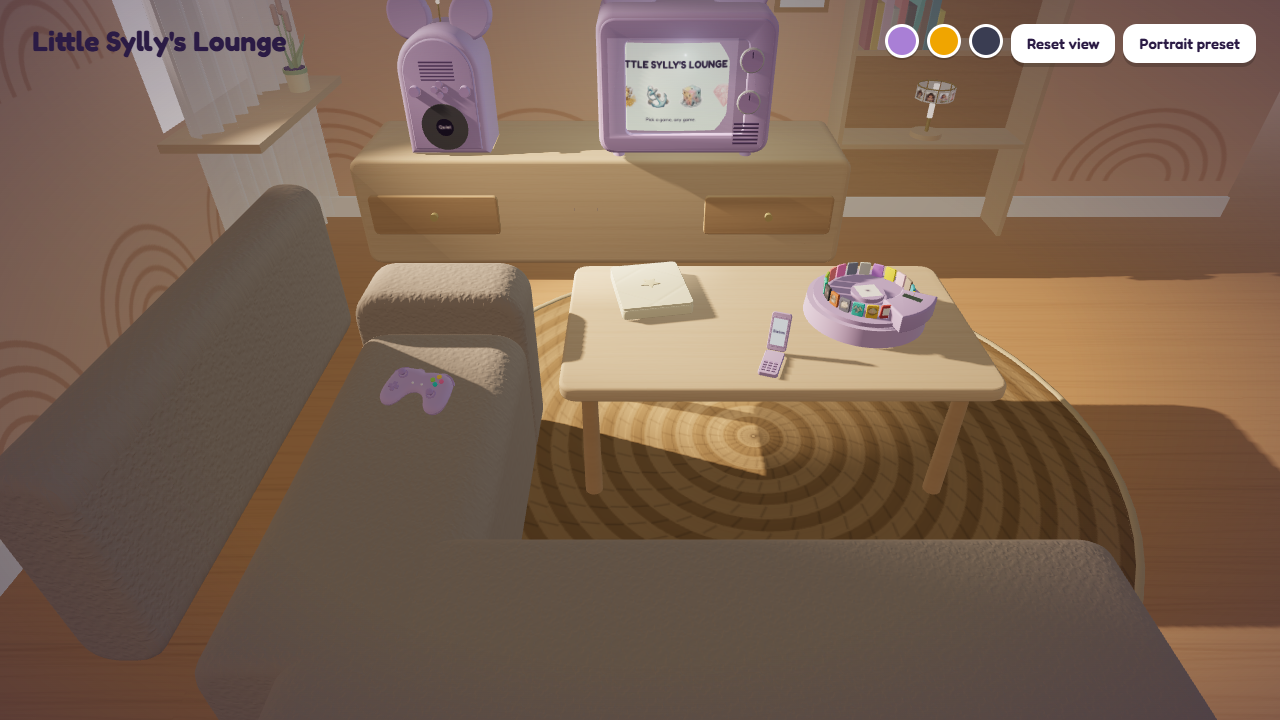
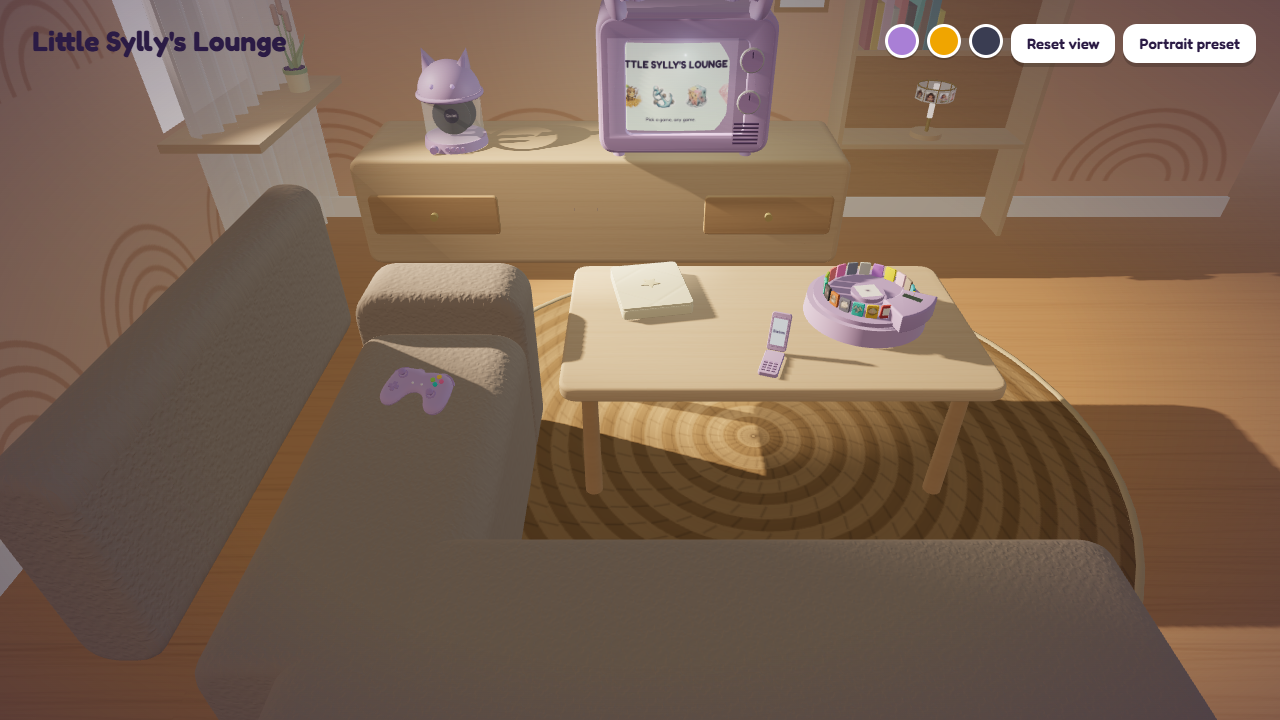
feat(premium): re-block steps 4-5 — droopy bunny ears on the telly, the cat-jar jukebox
Both props reshaped to the owner's chosen references, both keeping every
pick id and api so the scene's wiring is untouched.

The ears are a new lib helper, droopEar: a tube swept along a bent curve
and flattened so it reads as a lobe. A lathe cannot bend, which is why
it is a tube. First attempt folded the ear mostly along +z and it read
as a straight antenna from the couch, because a fold toward the camera
is foreshortened to nothing; the shipped curve hangs the tip low in
front of the screen instead.

The jukebox becomes a see-through jar with the records standing inside
and a dome lid with cat ears. First attempt parked the ears near the
lid's base, where the dome's own 0.118 radius swallowed them whole.

Plain opacity, not MeshPhysical transmission, per the cost envelope.

365 Node checks, 17 visual checks, all green.

Changed region(s): [[0.2812, 0.0, 0.4688, 0.2139], [0.4688, 0.0, 0.5938, 0.0306], [0.4688, 0.1222, 0.5625, 0.1528]]

diff --git a/wip/premium/prm-props.js b/wip/premium/prm-props.js
@@ -44,7 +44,7 @@
   const PRM_BUILDERS = {};
 
   function prmBuildAll(ctx) {
-    const shared = { earGeometry: ctx.ControllerBody ? ctx.ControllerBody.buildEars(ctx.lib.THREE, ctx.lib.mats.cream)[0].geometry : null };
+    const shared = {};   // the TV and the jukebox now build their own ears; nothing is shared
     const out = {};
     Object.keys(PRM_BUILDERS).forEach(id => { const g = PRM_BUILDERS[id](ctx, shared); g.name = id; out[id] = g; });
     return out;
@@ -169,17 +169,29 @@
       g.add(d); g.add(prmMesh(THREE, rimGeo, mats.chrome, id + '-rim', [0.22, cy + dy, D / 2 + 0.035]));
     });
     for (let i = 0; i < 6; i++) g.add(prmMesh(THREE, new THREE.BoxGeometry(0.09, 0.006, 0.006), mats.plum, 'grille' + i, [0.22, cy - 0.12 - i * 0.014, D / 2 + 0.022], null, false));
-    if (opts.earGeometry) [-1, 1].forEach(side => {
-      const e = new THREE.Mesh(opts.earGeometry, ears); e.name = side < 0 ? 'earL' : 'earR';
-      e.scale.setScalar(0.24); e.position.set(side * 0.2, cy + H / 2 + 0.06, -0.04); e.rotation.set(-0.12, 0, -side * 0.1);
-      e.castShadow = e.receiveShadow = true; g.add(e);
+    /* Droopy bunny ears (owner, 19 Sep 2026 — the "Bunny Beats" reference): each ear rises from
+       the cabinet top, leans outward, then folds forward and down past the front top edge. The
+       tip is a flattened sphere cap in the ear colour. */
+    /* The fold has to bring the tip visibly DOWN, not just forward: a fold that travels mostly along
+       +z is foreshortened to nothing from the couch and the ear reads as a straight antenna. This
+       curve rises, arcs over the front edge and hangs the tip low, in front of the screen top. */
+    const EAR_R = 0.062, EAR_PTS = [[0, 0, 0], [0, 0.12, 0.0], [0.01, 0.22, 0.04], [0.03, 0.25, 0.12], [0.05, 0.16, 0.21], [0.06, 0.06, 0.24]];
+    [-1, 1].forEach(side => {
+      const ear = lib.droopEar(EAR_PTS, EAR_R, 0.55);
+      const e = new THREE.Mesh(ear.outer, ears); e.name = side < 0 ? 'earL' : 'earR';
+      e.castShadow = e.receiveShadow = true;
+      e.position.set(side * 0.165, cy + H / 2 - 0.01, -0.06); e.rotation.set(0, 0, -side * 0.34); e.scale.x = side < 0 ? -1 : 1;
+      const inner = new THREE.Mesh(ear.inner, plate); inner.name = 'inner'; inner.receiveShadow = true; e.add(inner);
+      const tipGeo = new THREE.SphereGeometry(EAR_R, 14, 10); tipGeo.scale(0.55, 1, 1);
+      const tip = new THREE.Mesh(tipGeo, ears); tip.name = 'tip'; tip.position.copy(ear.tip); tip.castShadow = true; e.add(tip);
+      g.add(e);
     });
     [[-0.24, -0.15], [0.24, -0.15], [-0.24, 0.12], [0.24, 0.12]].forEach(([x, z], i) =>
       g.add(prmMesh(THREE, new THREE.CylinderGeometry(0.02, 0.022, FEET, 16), shell, 'foot' + i, [x, FEET / 2, z])));
     g.userData.api = { screen, tick() { return false; } };
     return g;
   }
-  PRM_BUILDERS.tv = (ctx, shared) => prmBuildTV(ctx.lib, ctx.design, { earGeometry: shared.earGeometry, attractTexture: ctx.attractTexture });
+  PRM_BUILDERS.tv = (ctx) => prmBuildTV(ctx.lib, ctx.design, { attractTexture: ctx.attractTexture });
 
   /* Pure: the rotation a spin ends on. Cartridge i sits at angle i·slot on the
      ring; spinner rotation θ = -k·slot brings k to the front. Always at least
@@ -268,45 +280,66 @@
     s.closePath(); return s;
   }
 
-  /* The jukebox: an arched cabinet (shell), inset panel (plate), grille, two
-     knobs + four candy caps (buttons), a record with a label, a brass antenna
-     with a lit bead, and ears that are shorter, rounder and angled out. */
-  function prmBuildJukebox(lib, design, opts = {}) {
-    const { THREE, mats } = lib; const g = new THREE.Group(); const W = 0.30, H = 0.44, D = 0.24, cy = H / 2;
+  /* The cat jar (owner, 19 Sep 2026 — the "Lavender Cat" reference). A see-through cylinder with
+     two records standing inside it, on a base ring carrying the knob and four candy buttons; a
+     dome lid with a rim, two triangular cat ears and two lit eyes. Replaces the arched cabinet
+     wholesale but keeps every pick id and the same api, so the scene's wiring is untouched.
+     shell → lid + base · plate → record labels + inner ears · ears → cat ears · buttons → knob,
+     buttons, eyes. */
+  function prmBuildJukebox(lib, design) {
+    const { THREE, mats } = lib; const g = new THREE.Group();
     const shell = lib.role('shell', design.shell), plate = lib.role('plate', design.plate);
     const ears = lib.role('ears', design.ears), buttons = lib.role('buttons', design.buttons, { roughness: .34 });
-    const arch = (w, h) => { const s = new THREE.Shape(), r = w / 2; s.moveTo(-r, -h / 2); s.lineTo(r, -h / 2); s.lineTo(r, h / 2 - r); s.absarc(0, h / 2 - r, r, 0, Math.PI, false); s.lineTo(-r, -h / 2); return s; };
-    /* lib.extrude is the raw one: bevelSize pushes the outline OUTWARD, so the
-       shape is inset by the bevel to make the finished cabinet exactly W x H.
-       Un-inset it sank 2 cm of itself into the bench it stands on. */
-    const CAB_BEV = 0.02, PAN_BEV = 0.005;
-    g.add(prmMesh(THREE, lib.extrude(arch(W - 2 * CAB_BEV, H - 2 * CAB_BEV), D, CAB_BEV), shell, 'cabinet', [0, cy, 0]));
-    g.add(prmMesh(THREE, lib.extrude(arch(W - 0.05 - 2 * PAN_BEV, H - 0.05 - 2 * PAN_BEV), 0.02, PAN_BEV), plate, 'panel', [0, cy, D / 2 + 0.005]));
-    for (let i = 0; i < 6; i++) g.add(prmMesh(THREE, new THREE.BoxGeometry(0.12, 0.005, 0.006), mats.plum, 'grille' + i, [0, cy + 0.12 - i * 0.012, D / 2 + 0.02], null, false));
-    const knobGeo = new THREE.CylinderGeometry(0.018, 0.02, 0.02, 24);
-    const knob = prmMesh(THREE, knobGeo, buttons, 'jukebox-knob', [-0.09, cy + 0.02, D / 2 + 0.025], [Math.PI / 2, 0, 0]); prmTag(knob, 'jukebox-knob'); g.add(knob);
-    g.add(prmMesh(THREE, knobGeo, buttons, 'knobR', [0.09, cy + 0.02, D / 2 + 0.025], [Math.PI / 2, 0, 0]));
-    const capGeo = new THREE.CylinderGeometry(0.011, 0.012, 0.008, 20);
-    [[0, 0.045], [0, 0.005], [-0.02, 0.025], [0.02, 0.025]].forEach(([x, y], i) => g.add(prmMesh(THREE, capGeo, buttons, 'cap' + i, [x, cy + y, D / 2 + 0.02], [Math.PI / 2, 0, 0])));
-    const record = prmMesh(THREE, new THREE.CylinderGeometry(0.085, 0.085, 0.005, 48), mats.black, 'jukebox-record', [0, cy - 0.11, D / 2 + 0.02], [Math.PI / 2, 0, 0]); prmTag(record, 'jukebox-record'); g.add(record);
+    const eyes = lib.role('buttons', design.buttons, { emissive: design.buttons, emissiveIntensity: .6, roughness: .3 });
+    eyes.userData.prmEmissive = true;
+    const JR = 0.11, JH = 0.16, BASE_H = 0.035, LID_R = 0.118;
+    const jarBottom = BASE_H, jarTop = BASE_H + JH, recY = jarBottom + JH / 2;
+
+    g.add(prmMesh(THREE, new THREE.CylinderGeometry(LID_R, LID_R + 0.005, BASE_H, 32), shell, 'base', [0, BASE_H / 2, 0]));
+    /* Open-ended so we see the records through both walls; no shadow, or the jar casts a solid
+       black drum on the bench and stops reading as glass at all. */
+    g.add(prmMesh(THREE, new THREE.CylinderGeometry(JR, JR, JH, 48, 1, true), mats.glass, 'jar', [0, jarBottom + JH / 2, 0], null, false));
+
+    const recGeo = new THREE.CylinderGeometry(0.072, 0.072, 0.005, 48);
+    const record = prmMesh(THREE, recGeo, mats.black, 'jukebox-record', [0, recY, 0.025], [Math.PI / 2, 0, 0]);
+    prmTag(record, 'jukebox-record'); g.add(record);
     const labelMat = new THREE.MeshStandardMaterial({ map: lib.tex.label('', '#2B1B45', '#ffffff', 256, 256), roughness: .6 });
-    const label = prmMesh(THREE, new THREE.CircleGeometry(0.032, 32), labelMat, 'recordLabel', [0, cy - 0.11, D / 2 + 0.0231], null, false); g.add(label);
-    g.add(prmMesh(THREE, new THREE.CylinderGeometry(0.003, 0.003, 0.06, 8), mats.brass, 'antenna', [0, H + 0.03, -0.02], null, false));
-    g.add(prmMesh(THREE, new THREE.SphereGeometry(0.008, 12, 10), mats.emissive('#ffd27a', 1.5), 'bead', [0, H + 0.065, -0.02], null, false));
-    if (opts.earGeometry) [-1, 1].forEach(side => {
-      const e = new THREE.Mesh(opts.earGeometry, ears); e.name = side < 0 ? 'earL' : 'earR';
-      e.scale.set(0.17, 0.14, 0.17); e.position.set(side * 0.11, H + 0.02, -0.03); e.rotation.set(-0.1, 0, -side * 0.45);
-      e.castShadow = e.receiveShadow = true; g.add(e);
+    const label = prmMesh(THREE, new THREE.CircleGeometry(0.028, 32), labelMat, 'recordLabel', [0, recY, 0.0281], null, false);
+    g.add(label);
+    const back = prmMesh(THREE, recGeo, mats.black, 'recordBack', [0.012, recY, -0.03], [Math.PI / 2, 0.18, 0]);
+    back.add(prmMesh(THREE, new THREE.CircleGeometry(0.028, 32), plate, 'recordBackLabel', [0, 0.0031, 0], [-Math.PI / 2, 0, 0], false));
+    g.add(back);
+
+    // the control strip on the base's front
+    const knob = prmMesh(THREE, new THREE.CylinderGeometry(0.014, 0.016, 0.018, 24), buttons, 'jukebox-knob', [-0.06, BASE_H / 2, LID_R + 0.008], [Math.PI / 2, 0, 0]);
+    prmTag(knob, 'jukebox-knob'); g.add(knob);
+    const capGeo = new THREE.CylinderGeometry(0.008, 0.009, 0.008, 20);
+    [-0.02, 0.0, 0.02, 0.04].forEach((x, i) => g.add(prmMesh(THREE, capGeo, buttons, 'button' + i, [x + 0.01, BASE_H / 2, LID_R + 0.003], [Math.PI / 2, 0, 0])));
+
+    // the lid: a dome, a rim, two cat ears with paler inners, two lit eyes
+    g.add(prmMesh(THREE, new THREE.SphereGeometry(LID_R, 32, 16, 0, Math.PI * 2, 0, Math.PI / 2), shell, 'lid', [0, jarTop, 0]));
+    g.add(prmMesh(THREE, new THREE.TorusGeometry(LID_R, 0.009, 10, 48), shell, 'lidRim', [0, jarTop, 0], [Math.PI / 2, 0, 0]));
+    const earGeo = new THREE.ConeGeometry(0.036, 0.075, 4); earGeo.scale(1, 1, 0.55); earGeo.rotateY(Math.PI / 4);
+    const innerGeo = new THREE.ConeGeometry(0.02, 0.045, 4); innerGeo.scale(1, 1, 0.55); innerGeo.rotateY(Math.PI / 4);
+    [-1, 1].forEach(side => {
+      /* On TOP of the dome, not inside it: the dome's own radius is 0.118, so an ear parked near
+         jarTop simply vanishes into the lid. */
+      const e = prmMesh(THREE, earGeo, ears, side < 0 ? 'earL' : 'earR', [side * 0.072, jarTop + 0.125, -0.005], [0, 0, -side * 0.30]);
+      e.add(prmMesh(THREE, innerGeo, plate, 'inner', [0, -0.008, 0.014], null, false));
+      g.add(e);
     });
+    [-1, 1].forEach(side => g.add(prmMesh(THREE, new THREE.SphereGeometry(0.009, 12, 10), eyes, side < 0 ? 'eyeL' : 'eyeR', [side * 0.038, jarTop + 0.050, 0.102], null, false)));
+
     let playing = false;
     g.userData.api = {
       setLabel(text) { const old = labelMat.map; labelMat.map = lib.tex.label(text, '#2B1B45', '#ffffff', 256, 256); labelMat.needsUpdate = true; if (old) old.dispose(); },
       setPlaying(b) { playing = !!b; },
-      tick(now, dt, reduced) { if (!playing || reduced) return false; const d = dt * 3.49; record.rotateY(d); label.rotation.z += d; return true; },   // 33 rpm
+      // 33 rpm, now seen through the glass
+      tick(now, dt, reduced) { if (!playing || reduced) return false; const d = dt * 3.49; record.rotateY(d); label.rotation.z += d; return true; },
     };
     return g;
   }
-  PRM_BUILDERS.jukebox = (ctx, shared) => prmBuildJukebox(ctx.lib, ctx.design, { earGeometry: shared.earGeometry });
+  PRM_BUILDERS.jukebox = (ctx) => prmBuildJukebox(ctx.lib, ctx.design);
 
   /* The flip phone: lower half with the keypad flat on the table, upper half
      hinged open ~110° with its screen facing the camera. Body = shell, screen

diff --git a/wip/premium/verify-prm-props.js b/wip/premium/verify-prm-props.js
@@ -59,9 +59,16 @@ ok(lib.THREE === THREE, 'lib carries the injected THREE');
   const t = lib.tex[k](); ok(t && t.isTexture && t.wrapS === THREE.RepeatWrapping, `tex.${k} returns a repeating texture`);
 });
 ['braid', 'braidBump'].forEach(k => ok(lib.tex[k]().isTexture, `tex.${k} returns a texture`));
+{
+  const e = lib.droopEar([[0, 0, 0], [0, 0.14, 0], [0, 0.24, 0.03], [0, 0.27, 0.10], [0, 0.22, 0.17]], 0.055, 0.55);
+  ok(e.outer && e.outer.isBufferGeometry && e.inner && e.inner.isBufferGeometry, 'droopEar returns outer + inner geometries');
+  e.outer.computeBoundingBox(); const sz = new THREE.Vector3(); e.outer.boundingBox.getSize(sz);
+  ok(sz.x < sz.z * 0.8, `droopEar is flattened in x (x ${sz.x.toFixed(3)} vs z ${sz.z.toFixed(3)})`);
+  ok(e.tip.y < e.outer.boundingBox.max.y - 0.03, 'the tip hangs below the ear crown (it droops)');
+}
 ok(lib.tex.label('Hello').isTexture, 'tex.label returns a texture');
 ok(lib.tex.abstract(3).isTexture, 'tex.abstract returns a texture');
-['birch', 'birchDark', 'floor', 'wall', 'rug', 'rugEdge', 'fabric', 'cream', 'skirting', 'plum', 'black', 'chrome', 'brass', 'curtain', 'window', 'yellow', 'yellowDark', 'paper', 'sleeve', 'potCream', 'leaf', 'cattail']
+['birch', 'birchDark', 'floor', 'wall', 'rug', 'rugEdge', 'fabric', 'cream', 'skirting', 'plum', 'black', 'chrome', 'brass', 'curtain', 'window', 'yellow', 'yellowDark', 'paper', 'sleeve', 'potCream', 'leaf', 'cattail', 'glass']
   .forEach(k => ok(lib.mats[k] && lib.mats[k].isMaterial, `mats.${k} exists`));
 ok(lib.mats.emissive('#ff0000', 2).emissiveIntensity === 2, 'mats.emissive takes an intensity');
 {
@@ -226,7 +233,15 @@ section('tv');
   const ids = {}; tv.traverse(o => { if (o.userData.prmId) ids[o.userData.prmId] = o; });
   ['tv-screen', 'tv-channel', 'tv-volume'].forEach(id => ok(ids[id], `tv has pick node ${id}`));
   ok(ids['tv-screen'].isMesh && ids['tv-screen'].geometry.type === 'SphereGeometry', 'the screen is a sphere section (curved glass)');
-  ok(tv.getObjectByName('earL') && tv.getObjectByName('earR'), 'tv has two ears');
+  const eL = tv.getObjectByName('earL'), eR = tv.getObjectByName('earR'); ok(eL && eR, 'tv has two ears');
+  ok(eL.getObjectByName('inner') && eL.getObjectByName('inner').material.userData.prmRole === 'plate', 'ear inner takes the plate role');
+  ok(eL.getObjectByName('tip') && eL.getObjectByName('tip').material === eL.material, 'ear tip shares the ear material');
+  tv.updateMatrixWorld(true);
+  { const tipW = new THREE.Vector3(); eL.getObjectByName('tip').getWorldPosition(tipW);
+    const earBox = new THREE.Box3().setFromObject(eL), bodyBox = new THREE.Box3().setFromObject(tv.getObjectByName('body'));
+    ok(tipW.y < earBox.max.y - 0.03, 'the ear droops: its tip is below its crown');
+    ok(tipW.z > bodyBox.max.z - 0.12, 'the ear folds forward toward the viewer');
+    ok(earBox.min.x < bodyBox.min.x + 0.02, 'the left ear leans outward past the cabinet'); }
   const roles = {}; tv.traverse(o => { if (o.isMesh && o.material.userData.prmRole) roles[o.material.userData.prmRole] = (roles[o.material.userData.prmRole] || 0) + 1; });
   ['shell', 'plate', 'ears', 'buttons'].forEach(r => ok(roles[r] > 0, `tv carries ${r}`));
   eq(tv.getObjectByName('earL').material.color.getHexString(), '333333', 'ears take design.ears');
@@ -259,8 +274,22 @@ section('jukebox-phone-binder');
   ok(built.jukebox && built.phone && built.binder, 'jukebox, phone and binder build');
   const ids = {}; built.jukebox.traverse(o => { if (o.userData.prmId) ids[o.userData.prmId] = o; });
   ok(ids['jukebox-knob'] && ids['jukebox-record'], 'jukebox has knob + record pick nodes');
-  ok(built.jukebox.getObjectByName('earL') && built.jukebox.getObjectByName('earR'), 'jukebox has ears');
-  ok(built.jukebox.getObjectByName('earL').scale.y < built.jukebox.getObjectByName('earL').scale.x, 'jukebox ears are shorter and rounder than tall (distinct from the TV)');
+  // the cat jar (owner, 19 Sep 2026 — the "Lavender Cat" reference): a see-through body with the
+  // records standing inside, a dome lid with triangular cat ears. Same pick ids as the cabinet it replaced.
+  const jar = built.jukebox.getObjectByName('jar');
+  ok(jar && jar.material.transparent && jar.material.opacity > 0.2 && jar.material.opacity < 0.5, 'jar is a see-through cylinder');
+  ok(jar.geometry.type === 'CylinderGeometry' && !jar.castShadow, 'jar is a cylinder that casts no shadow');
+  ok(built.jukebox.getObjectByName('lid') && built.jukebox.getObjectByName('lid').material.userData.prmRole === 'shell', 'lid takes the shell role');
+  const jEL = built.jukebox.getObjectByName('earL'), jER = built.jukebox.getObjectByName('earR');
+  ok(jEL && jER, 'cat jar has two ears');
+  ok(jEL.geometry.type === 'ConeGeometry' && jEL.material.userData.prmRole === 'ears', 'cat ears are cones in the ears role');
+  ok(jEL.getObjectByName('inner') && jEL.getObjectByName('inner').material.userData.prmRole === 'plate', 'cat ear inner takes the plate role');
+  ok(built.jukebox.getObjectByName('recordBack'), 'a second record stands behind the first');
+  built.jukebox.updateMatrixWorld(true);
+  { const jarBox = new THREE.Box3().setFromObject(jar), recBox = new THREE.Box3().setFromObject(ids['jukebox-record']);
+    ok(jarBox.containsBox(recBox), 'the front record is inside the jar'); }
+  ok(built.jukebox.getObjectByName('eyeL').material.userData.prmRole === 'buttons', 'eyes take the buttons role');
+  { let btns = 0; built.jukebox.traverse(o => { if (/^button\d$/.test(o.name)) btns++; }); eq(btns, 4, 'four candy buttons on the base'); }
   const jb = built.jukebox.userData.api; jb.setLabel('Hello'); jb.setPlaying(true);
   const q0 = ids['jukebox-record'].quaternion.clone(); ok(jb.tick(100, 0.1, false) === true, 'record turns while playing');
   ok(!ids['jukebox-record'].quaternion.equals(q0), 'record orientation changed'); ok(jb.tick(200, 0.1, true) === false, 'record still under reduced motion');

diff --git a/wip/premium/prm-lib.js b/wip/premium/prm-lib.js
@@ -155,6 +155,9 @@
       yellowDark: std({ color: '#d9c27a', roughness: .55 }),
       paper:      std({ color: '#ffffff', roughness: .8 }),
       sleeve:     std({ color: '#ffffff', roughness: .15, transparent: true, opacity: .85 }),
+      /* The cat jar's body. Plain opacity, never MeshPhysical transmission — the cost envelope
+         rules that out and at this size opacity reads as glass anyway. */
+      glass:      std({ color: '#dfeef5', roughness: .15, metalness: 0, transparent: true, opacity: .32, side: THREE.DoubleSide, depthWrite: false }),
       emissive(hex, intensity = 1) { return std({ color: hex, emissive: hex, emissiveIntensity: intensity, roughness: .5 }); },
     };
   }
@@ -174,6 +177,18 @@
         return prmExtrude(THREE, shape, d, bevel, opt, smoothNormals);
       },
       extrude: (shape, d, bevel, opt = {}) => prmExtrude(THREE, shape, d, bevel, opt, smoothNormals),
+      /* A droopy ear: a tube swept along a bent curve (rise, lean, fold forward and down),
+         flattened in x so it reads as a lobe and not a sausage; an inner tube along the same
+         curve pushed forward so the fold shows a paler inside. Local frame: root at the origin,
+         +y up, +z toward the viewer. The caller rotates the mesh about z to lean it outward.
+         A lathe cannot bend, which is why this is a tube and not a profile. */
+      droopEar(points, r, flatten = 0.55) {
+        const curve = new THREE.CatmullRomCurve3(points.map(p => new THREE.Vector3(p[0], p[1], p[2])));
+        const outer = new THREE.TubeGeometry(curve, 28, r, 12, false); outer.scale(flatten, 1, 1);
+        const inner = new THREE.TubeGeometry(curve, 28, r * 0.5, 10, false); inner.scale(flatten * 0.8, 1, 1); inner.translate(0, 0, r * 0.62);
+        const last = points[points.length - 1];
+        return { outer, inner, tip: new THREE.Vector3(last[0], last[1], last[2]) };
+      },
       role(role, hex, extra = {}) {
         const m = new THREE.MeshStandardMaterial(Object.assign({ color: hex, roughness: .52, metalness: .06 }, extra));
         m.userData.prmRole = role; return m;
